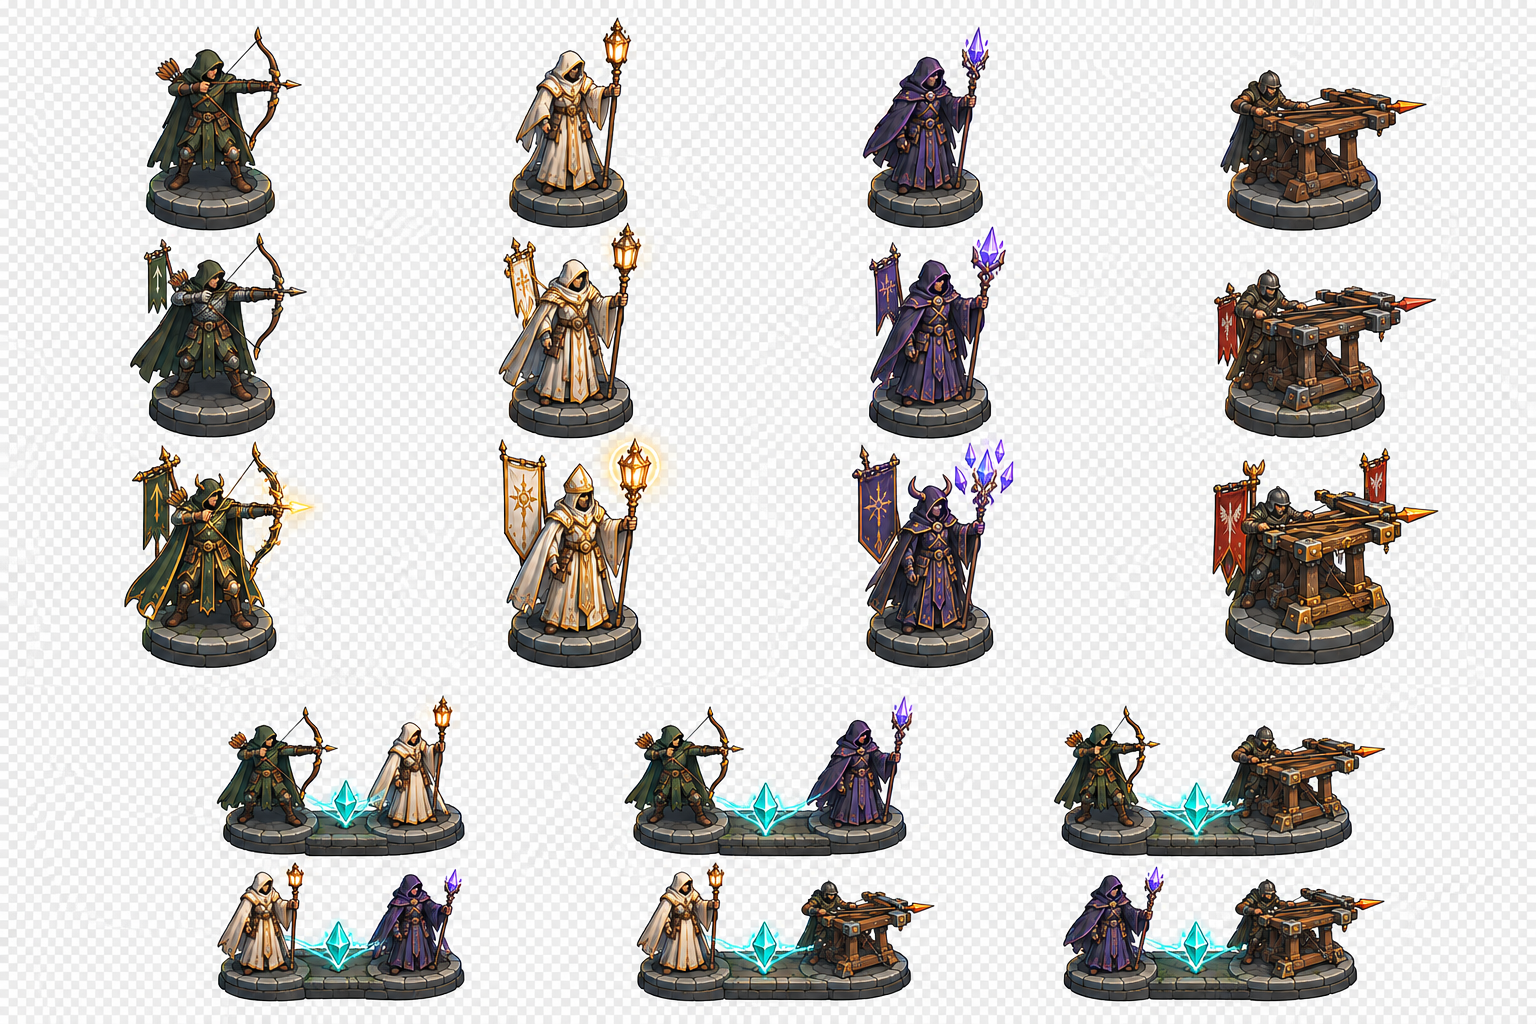
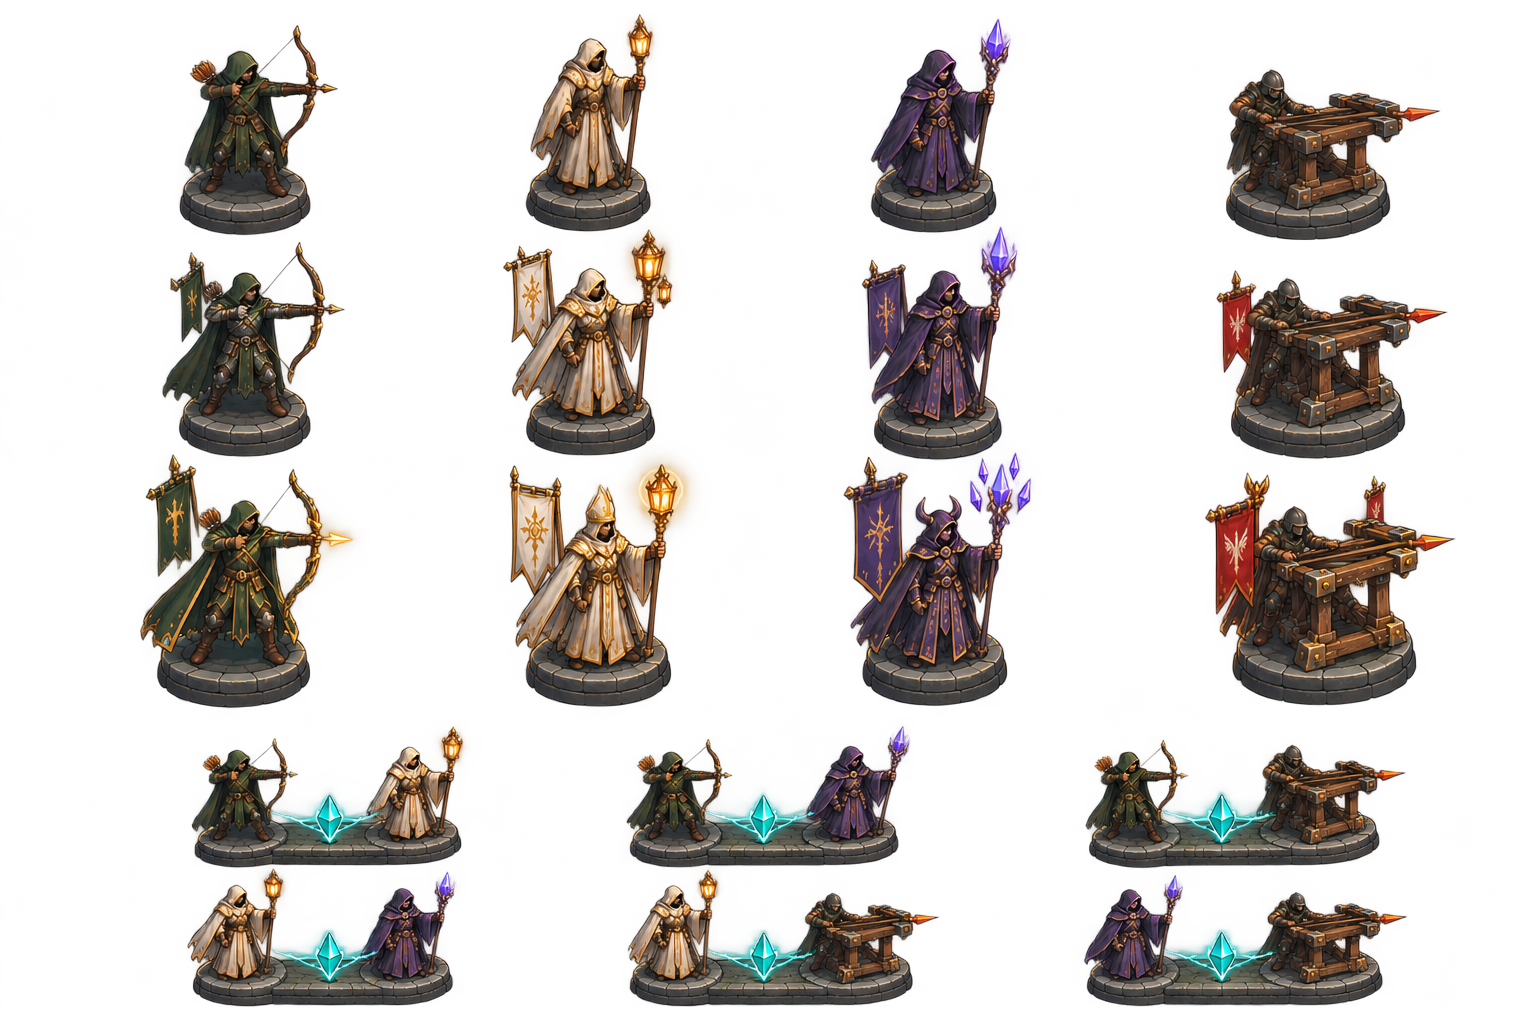
Башни с нового листа: своя прозрачность вместо шахматки, без белых крапин
Лист art/concepts/towers-tiers.png заменён перерисованной версией с настоящим
альфа-каналом. Нарезка берёт прозрачность листа (дымка < 10 % отброшена),
масштаб 0,26 сохраняет прежний размер фигур на поле.

Claude-Session: https://claude.ai/code/session_0125GU6JekU7SdvBeaaiQyTv

Changed region(s): [[0.3125, 0.0, 0.6875, 1.0], [0.6875, 0.0625, 0.9375, 1.0], [0.0625, 0.0312, 0.3125, 1.0]]

diff --git a/scripts/slice_sprites.py b/scripts/slice_sprites.py
@@ -24,8 +24,8 @@ SCALE = 3  # спрайт втрое крупнее, чем рисуется в 
 # name: (лист, рамка x0, y0, x1, y1, точка внутри фигуры, высота в игре в px, куда смотрит фигура)
 # Точка None — берётся всё непрозрачное в рамке (искры, флаги); высота None — по масштабу листа (SHEET_OPTS 'px'),
 # чтобы ярусы одной башни сохранили соотношение размеров и общую линию основания.
-TOWER_COLUMNS = {'archer': (60, 420), 'priest': (430, 790), 'mage': (790, 1150), 'ballista': (1150, 1520)}
-TOWER_ROWS = {1: (5, 228), 2: (228, 440), 3: (440, 690)}
+TOWER_COLUMNS = {'archer': (90, 430), 'priest': (450, 760), 'mage': (790, 1100), 'ballista': (1150, 1520)}
+TOWER_ROWS = {1: (5, 240), 2: (240, 460), 3: (460, 715)}
 
 SPRITES = {
     **{
@@ -103,8 +103,8 @@ def box_mean(a, r):
 
 # Листы с менее ровным фоном: тени в «карманах» темнее фона, вокруг фигур светлый серый ободок
 SHEET_OPTS = {
-    # Лист ярусов башен: фон — нарисованная шахматка (белый и светло-серый)
-    'towers-tiers': {'checker': True, 'px': 0.28},
+    # Лист ярусов башен: настоящая прозрачность, фон вырезать не нужно
+    'towers-tiers': {'alpha': True, 'px': 0.26},
     'enemies/factions': {'pocket': (9, 13), 'light_rim': True},
     'enemies/ice-legion': {'pocket': (9, 13), 'light_rim': True},
 }
@@ -195,11 +195,18 @@ def main():
     meta = {}
     for name, (sheet, rect, seed_pt, draw_h, facing) in SPRITES.items():
         if sheet not in sheets:
-            rgb = np.asarray(Image.open(os.path.join(SRC, sheet + '.png')).convert('RGB')).astype(float)
+            src = Image.open(os.path.join(SRC, sheet + '.png'))
+            rgb = np.asarray(src.convert('RGB')).astype(float)
             opts = {k: v for k, v in SHEET_OPTS.get(sheet, {}).items() if k != 'px'}
-            alpha, bg = checker_alpha(rgb) if opts.pop('checker', False) else sheet_alpha(rgb, **opts)
-            sheets[sheet] = (decontaminate(rgb, alpha, bg), alpha)
-        rgb, alpha = sheets[sheet]
+            if opts.pop('alpha', False):
+                # Своя прозрачность листа; слабую дымку сияния (< 10 %) отбрасываем
+                alpha = np.asarray(src.convert('RGBA'))[..., 3] / 255.0
+                alpha = np.where(alpha < 0.1, 0, alpha)
+                sheets[sheet] = (rgb, alpha, False)
+            else:
+                alpha, bg = checker_alpha(rgb) if opts.pop('checker', False) else sheet_alpha(rgb, **opts)
+                sheets[sheet] = (decontaminate(rgb, alpha, bg), alpha, True)
+        rgb, alpha, erode = sheets[sheet]
 
         x0, y0, x1, y1 = rect
         region = np.zeros(alpha.shape, bool)
@@ -213,13 +220,14 @@ def main():
             seed[sy - 3:sy + 4, sx - 3:sx + 4] = True
             obj = reconstruct(seed, solid)
         a = np.where(obj, alpha, 0)
-        # Срезаем внешний ободок в 1 px: в нём остаётся серый фон листа
-        e = a.copy()
-        e[1:, :] = np.minimum(e[1:, :], a[:-1, :])
-        e[:-1, :] = np.minimum(e[:-1, :], a[1:, :])
-        e[:, 1:] = np.minimum(e[:, 1:], a[:, :-1])
-        e[:, :-1] = np.minimum(e[:, :-1], a[:, 1:])
-        a = e
+        if erode:
+            # Срезаем внешний ободок в 1 px: в нём остаётся серый фон листа
+            e = a.copy()
+            e[1:, :] = np.minimum(e[1:, :], a[:-1, :])
+            e[:-1, :] = np.minimum(e[:-1, :], a[1:, :])
+            e[:, 1:] = np.minimum(e[:, 1:], a[:, :-1])
+            e[:, :-1] = np.minimum(e[:, :-1], a[:, 1:])
+            a = e
         a[a < 0.04] = 0
 
         ys, xs = np.nonzero(a)
